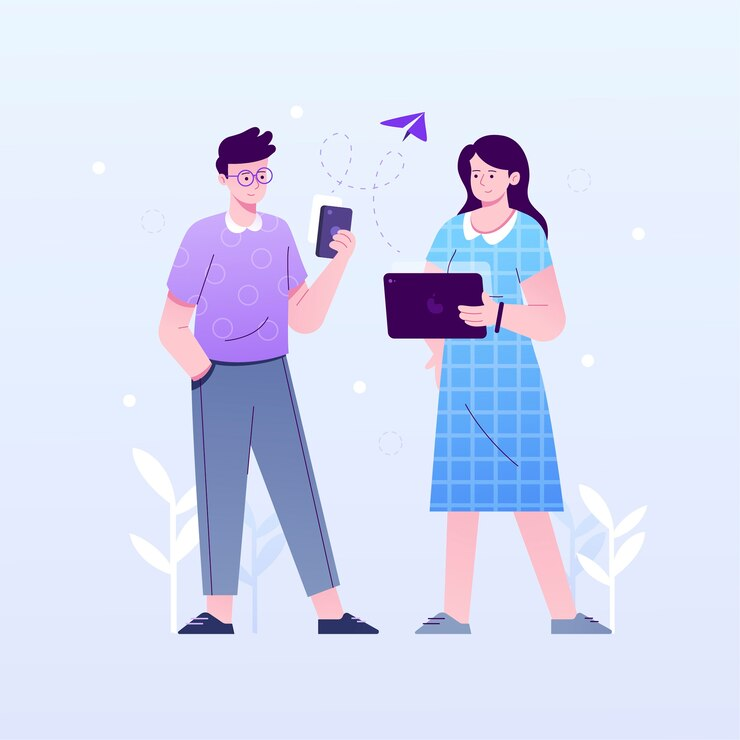
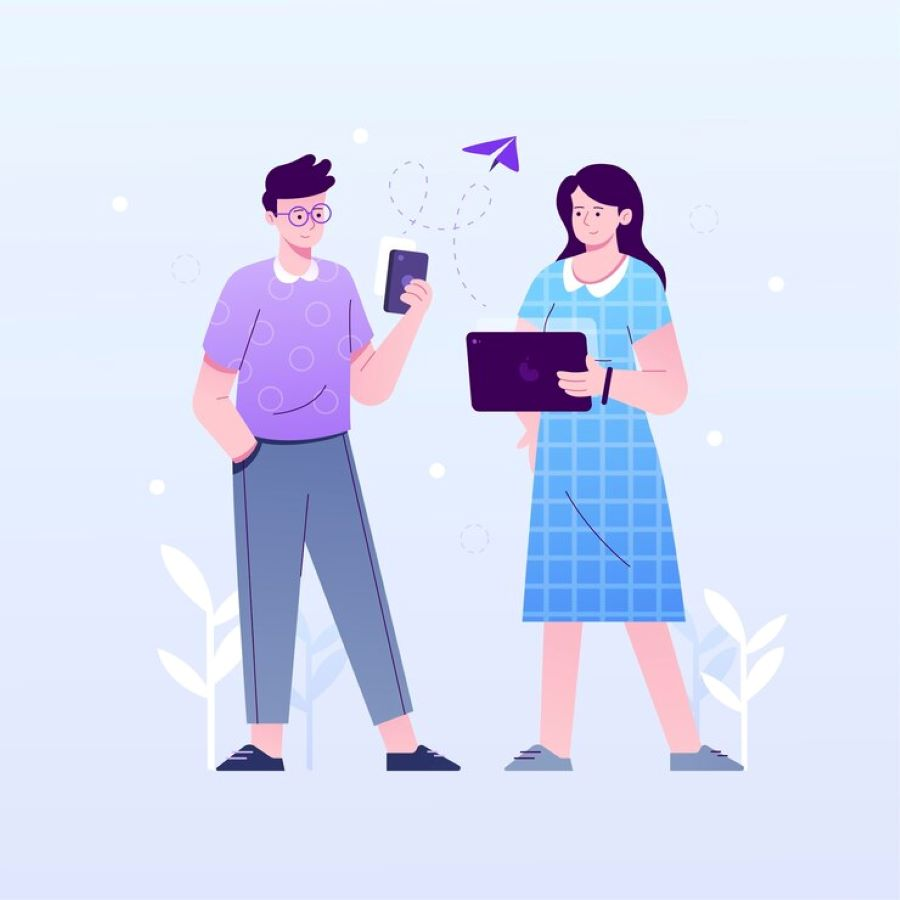
Login and Forgot Paswword page

diff --git a/src/authentication/Login.tsx b/src/authentication/Login.tsx
@@ -1,8 +1,7 @@
 import React, { useState } from "react";
 import { LazyLoadImage } from "react-lazy-load-image-component";
-import login from "../assets/login.png";
-import bg from "../assets/bg.jpg";
-import login2 from "../assets/login2.png";
+import login from "../assets/loginImg.png";
+
 import Input from "./Input";
 import Label from "./Label";
 import { EyeOff, Eye } from "lucide-react";
@@ -21,69 +20,18 @@ function Login({ handleTypeChange }: LoginProps) {
   };
 
   return (
-    // <div className="flex flex-col md:flex-row items-center justify-center p-2">
-    //   <LazyLoadImage
-    //     src={login2}
-    //     className="h-60 w-60 md:h-80 -mt-14 md:-mt-0 pt-10 md:w-80 lg:-ml-28 lg:h-2/5 lg:w-2/5"
-    //   />
-    //   <div className="w-2/5 md:mt-20 shadow-md rounded-lg p-5 md:px-10 md:py-5">
-    //     <div className="flex gap-x-4 items-center justify-center">
-    //       <img src={logo} className="w-9 h-9" />
-    //       <p className="text-3xl font-medium">
-    //         <span className="text-blue-600">W</span>elcome back!
-    //       </p>
-    //     </div>
-    //     <p className="mt-5 text-sm md:text-base">Let's get you ready for your next unforgettable event.</p>
-    //     <div className="flex flex-col">
-    //       <div className="flex">
-    //         <Label title="Email" className="mt-5" />
-    //         <Required className="mt-5" />
-    //       </div>
-    //       <Input type="email" className="mt-1" placeholder="Enter your email..." />
-    //       <div className="flex">
-    //         <Label title="Password" className="mt-5" />
-    //         <Required className="mt-5" />
-    //       </div>
-    //       <div className="flex">
-    //         <Input
-    //           type={showPassword ? "text" : "password"}
-    //           className="w-full h-16 mt-1"
-    //           placeholder="Enter your password..."
-    //         />
-    //         {showPassword ? (
-    //           <Eye className="-ml-8 text-gray-800 size-4 mt-4 cursor-pointer" onClick={handleShowPassword} />
-    //         ) : (
-    //           <EyeOff className="-ml-8 text-gray-800 size-4 mt-4 cursor-pointer" onClick={handleShowPassword} />
-    //         )}
-    //       </div>
-    //       <a href="#">
-    //         <span
-    //           className="text-blue-700 hover:underline cursor-pointer text-xs mt-2"
-    //           onClick={() => handleTypeChange("forgotPassword")}
-    //         >
-    //           Forgot your password?
-    //         </span>
-    //       </a>
-    //       <button className="bg-blue-600 hover:bg-blue-500 text-white w-full py-2 rounded-lg mt-8">Log in</button>
-    //       <p className="mt-2 md:mt-5 text-xs text-center">
-    //         Don't have an account?{" "}
-    //         <Link to="/signup" className="text-blue-700 underline cursor-pointer">
-    //           Register here
-    //         </Link>
-    //       </p>
-    //     </div>
-    //   </div>
-    // </div>
-    <div className="flex bg-image bg-no-repeat bg-blue-50 min-h-screen flex-col md:flex-row items-center justify-center p-2">
-      <LazyLoadImage src={bg} className="h-60 w-60 md:h-80 -mt-14 md:-mt-0 pt-10 md:w-80 lg:-ml-28 lg:h-2/5 lg:w-2/5" />
-      <div className="max-w-max md:mt-10 ml-96 shadow-md bg-white/20 rounded-lg p-5 md:px-10 md:py-5 backdrop-blur-lg">
+    <div className="flex w-screen min-h-screen bg-blue-50 flex-col md:flex-row items-center justify-center px-3">
+      <LazyLoadImage src={login} className="max-h-screen h-32 w-40 lg:-ml-32 md:w-1/2 md:h-1/2" />
+      <div className="lg:w-1/3 lg:-ml-20 shadow-lg bg-white/20 rounded-lg p-5">
         <div className="flex gap-x-4 items-center justify-center">
           <img src={logo} className="w-9 h-9" />
           <p className="text-3xl font-medium">
             <span className="text-blue-600">W</span>elcome back!
           </p>
         </div>
-        <p className="mt-5 text-sm md:text-base">Let's get you ready for your next unforgettable event.</p>
+        <p className="mt-2 md:mt-5 text-xs ml-16 md:text-base">
+          Let's get you ready for your next unforgettable event.
+        </p>
         <div className="flex flex-col">
           <div className="flex">
             <Label title="Email" className="mt-5" />
@@ -106,7 +54,12 @@ function Login({ handleTypeChange }: LoginProps) {
               <EyeOff className="-ml-8 text-gray-800 size-4 mt-4 cursor-pointer" onClick={handleShowPassword} />
             )}
           </div>
-          <p className="text-blue-700 hover:underline cursor-pointer text-xs mt-2">Forgot your password?</p>
+          <span
+            className="text-blue-700 hover:underline cursor-pointer text-xs mt-2"
+            onClick={() => handleTypeChange("forgotPassword")}
+          >
+            Forgot your password?
+          </span>
           <button className="bg-blue-600 hover:bg-blue-500 text-white w-full py-2 rounded-lg mt-8">Log in</button>
           <p className="mt-2 md:mt-5 text-xs text-center">
             Don't have an account?{" "}

diff --git a/src/authentication/ForgotPassword.tsx b/src/authentication/ForgotPassword.tsx
@@ -1,8 +1,6 @@
 import React, { useState } from "react";
 import { LazyLoadImage } from "react-lazy-load-image-component";
-import login from "../assets/login.png";
-
-import login2 from "../assets/login2.png";
+import login from "../assets/loginImg.png";
 import Input from "./Input";
 import Label from "./Label";
 import logo from "../assets/Logo.png";
@@ -15,12 +13,9 @@ interface ForgotPasswordProps {
 
 function ForgotPassword({ handleTypeChange }: ForgotPasswordProps) {
   return (
-    <div className="flex flex-col md:flex-row items-center justify-center p-2">
-      <LazyLoadImage
-        src={login2}
-        className="h-60 w-60 md:h-80 -mt-14 md:-mt-0 pt-10 md:w-80 lg:-ml-28 lg:h-2/5 lg:w-2/5"
-      />
-      <div className="w-2/5 md:mt-20 shadow-md rounded-lg p-5 md:px-10 md:py-5">
+    <div className="flex w-screen min-h-screen bg-blue-50 flex-col md:flex-row items-center justify-center">
+      <LazyLoadImage src={login} className="max-h-screen h-32 w-40 lg:-ml-32 md:w-1/2 md:h-1/2" />
+      <div className="lg:w-1/3 lg:-ml-20 shadow-lg bg-white/20 rounded-lg p-5">
         <div className="flex gap-x-4 items-center justify-center">
           <img src={logo} className="w-9 h-9" />
           <p className="text-3xl font-medium">
@@ -28,7 +23,6 @@ function ForgotPassword({ handleTypeChange }: ForgotPasswordProps) {
           </p>
         </div>
         <p className="mt-5 text-sm md:text-base">
-          {" "}
           Enter email address associated with your account and you will receive an email to reset your password.
         </p>
         <div className="flex flex-col">
@@ -37,15 +31,12 @@ function ForgotPassword({ handleTypeChange }: ForgotPasswordProps) {
             <Required className="mt-5" />
           </div>
           <Input type="email" className="mt-1" placeholder="Enter your email..." />
-
-          <a href="#">
-            <span
-              className="text-blue-700 hover:underline cursor-pointer text-xs mt-2"
-              onClick={() => handleTypeChange("login")}
-            >
-              Return to Login
-            </span>
-          </a>
+          <span
+            className="text-blue-700 hover:underline cursor-pointer text-xs mt-2"
+            onClick={() => handleTypeChange("login")}
+          >
+            Return to Login
+          </span>
           <button className="bg-blue-600 hover:bg-blue-500 text-white w-full py-2 rounded-lg mt-8">Submit</button>
           <p className="mt-2 md:mt-5 text-xs text-center">
             Don't have an account?{" "}

diff --git a/src/App.jsx b/src/App.jsx
@@ -3,7 +3,7 @@ import { createBrowserRouter, RouterProvider } from "react-router-dom";
 import Home from "./components/Home";
 import About from "./components/About";
 import PageWrapper from "./PageWrapper";
-import Login2 from "./authentication/Login2";
+import LoginPage from "./authentication/LoginPage";
 import Signup from "./authentication/Signup";
 
 function App() {
@@ -28,7 +28,7 @@ function App() {
     },
     {
       path: "/login",
-      element: <Login2 />,
+      element: <LoginPage />,
     },
     {
       path: "/signup",

diff --git a/src/authentication/LoginPage.tsx b/src/authentication/LoginPage.tsx
@@ -10,9 +10,6 @@ function LoginPage() {
   };
   return (
     <div>
-      <p className="font-semibold text-xl text-center flex flex-col p-8 tracking-tight">
-       
-      </p>
       {type === "login" && <Login handleTypeChange={handleTypeChange} />}
       {type === "forgotPassword" && <ForgotPassword handleTypeChange={handleTypeChange} />}
     </div>
